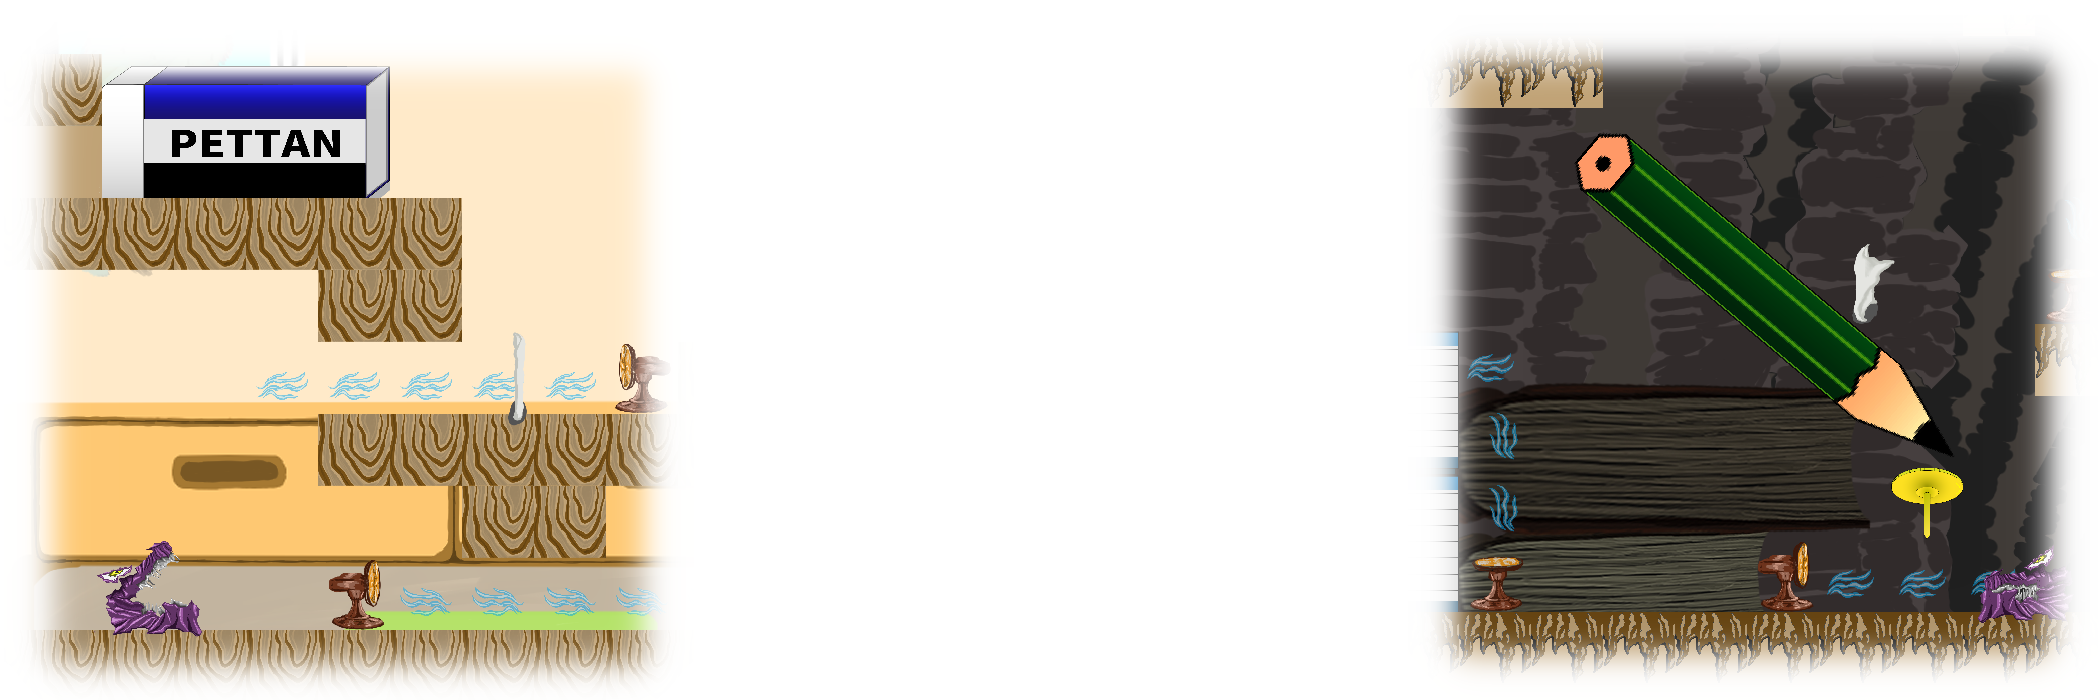
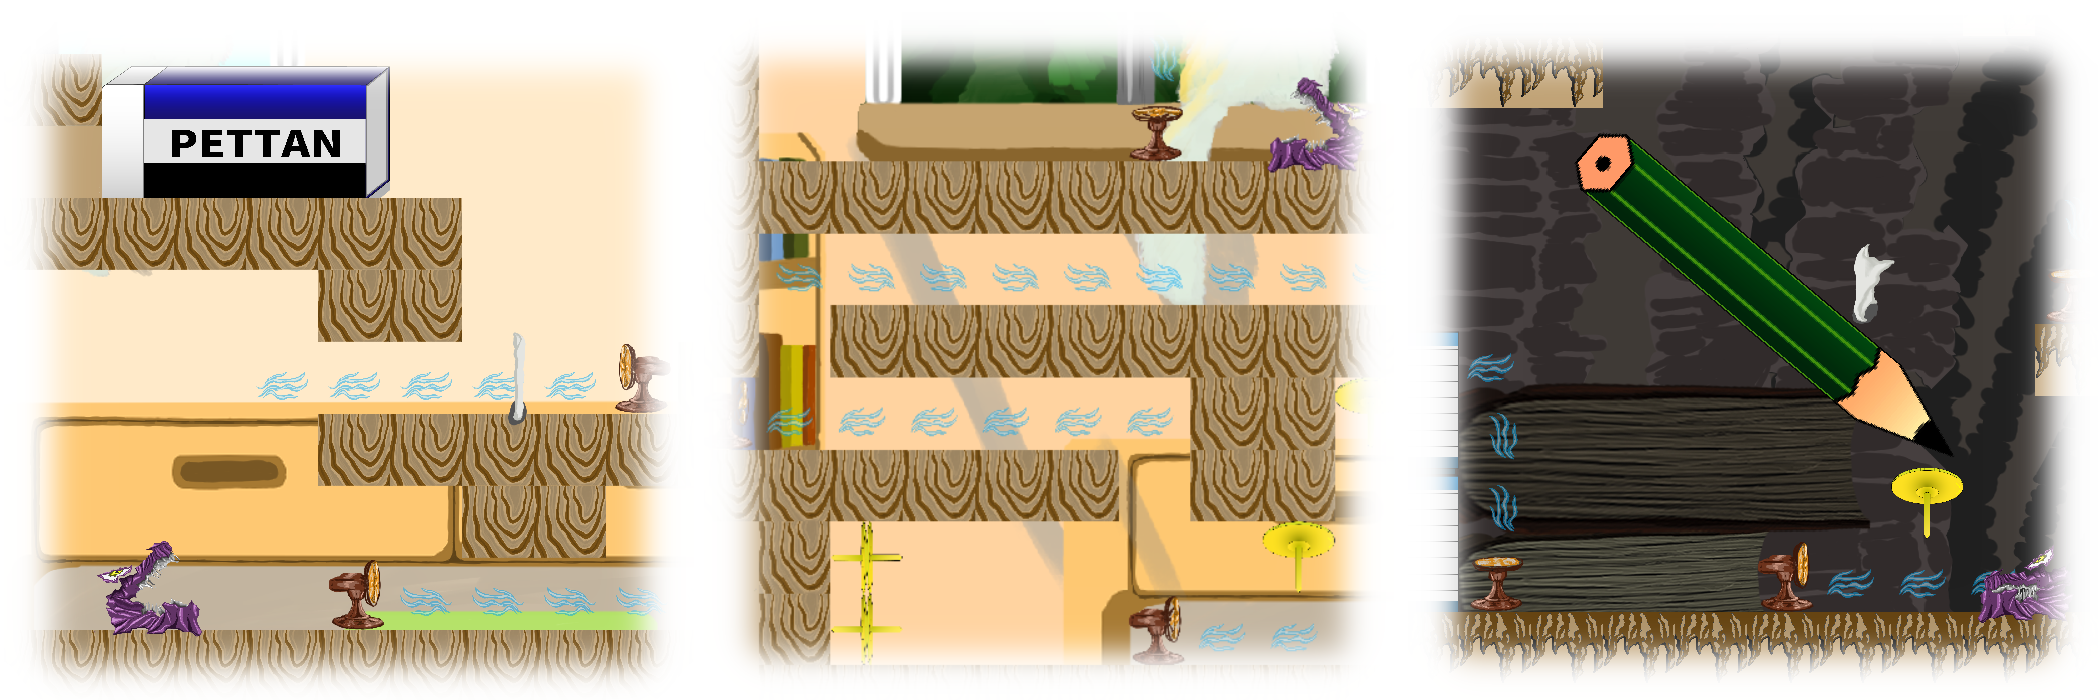
リザルトシーン完成と細かいところ修正

Changed region(s): [[0.3405, 0.06, 0.65, 0.96]]

diff --git a/CTextureLoader.h b/CTextureLoader.h
@@ -77,8 +77,9 @@ enum class TEX_ID	// テクスチャ識別子列挙型
 	DTILE_DOWN,
 	TITLE_BG,
 	HATA,
-	KANBAN,
 	STAGE_VIEW,
+	BG3,
+	KANBAN1,
 };
 
 // CTextureLoaderクラス
@@ -140,8 +141,9 @@ private:
 		L"asset/gabyousita.png",
 		L"asset/titleBg.png",
 		L"asset/hata.png",
-		L"asset/kanban.png",
 		L"asset/stagePreview.png",
+		L"asset/bg3.png",
+		L"asset/kanban1.png",
 	};
 
 	/* メソッド */

diff --git a/StageScene2.cpp b/StageScene2.cpp
@@ -138,6 +138,12 @@ StageScene2::~StageScene2()
 
 void StageScene2::Update()
 {
+	// セレクト画面に戻る
+	if (gInput->IsControllerButtonTrigger(XINPUT_GAMEPAD_START))
+	{
+		CSceneManager::GetInstance()->ChangeScene(SCENE_ID::SELECT, FADE_TYPE::ERASER);
+	}
+
 	// クリア、ゲームオーバーでシーン遷移
 	if (player->GetState() == PState::CLEAR_GAMEOVER && !changeSceneFlg)
 	{

diff --git a/xa2.cpp b/xa2.cpp
@@ -32,6 +32,7 @@ PARAM sound_param[SOUND_LABEL_MAX] =
 	{"asset/SE/break.wav", false},
 	{"asset/SE/down.wav", false},
 	{"asset/SE/scoreCount.wav", true},
+	{"asset/SE/clear.wav", false},
 };
 
 #ifdef _XBOX //Big-Endian
